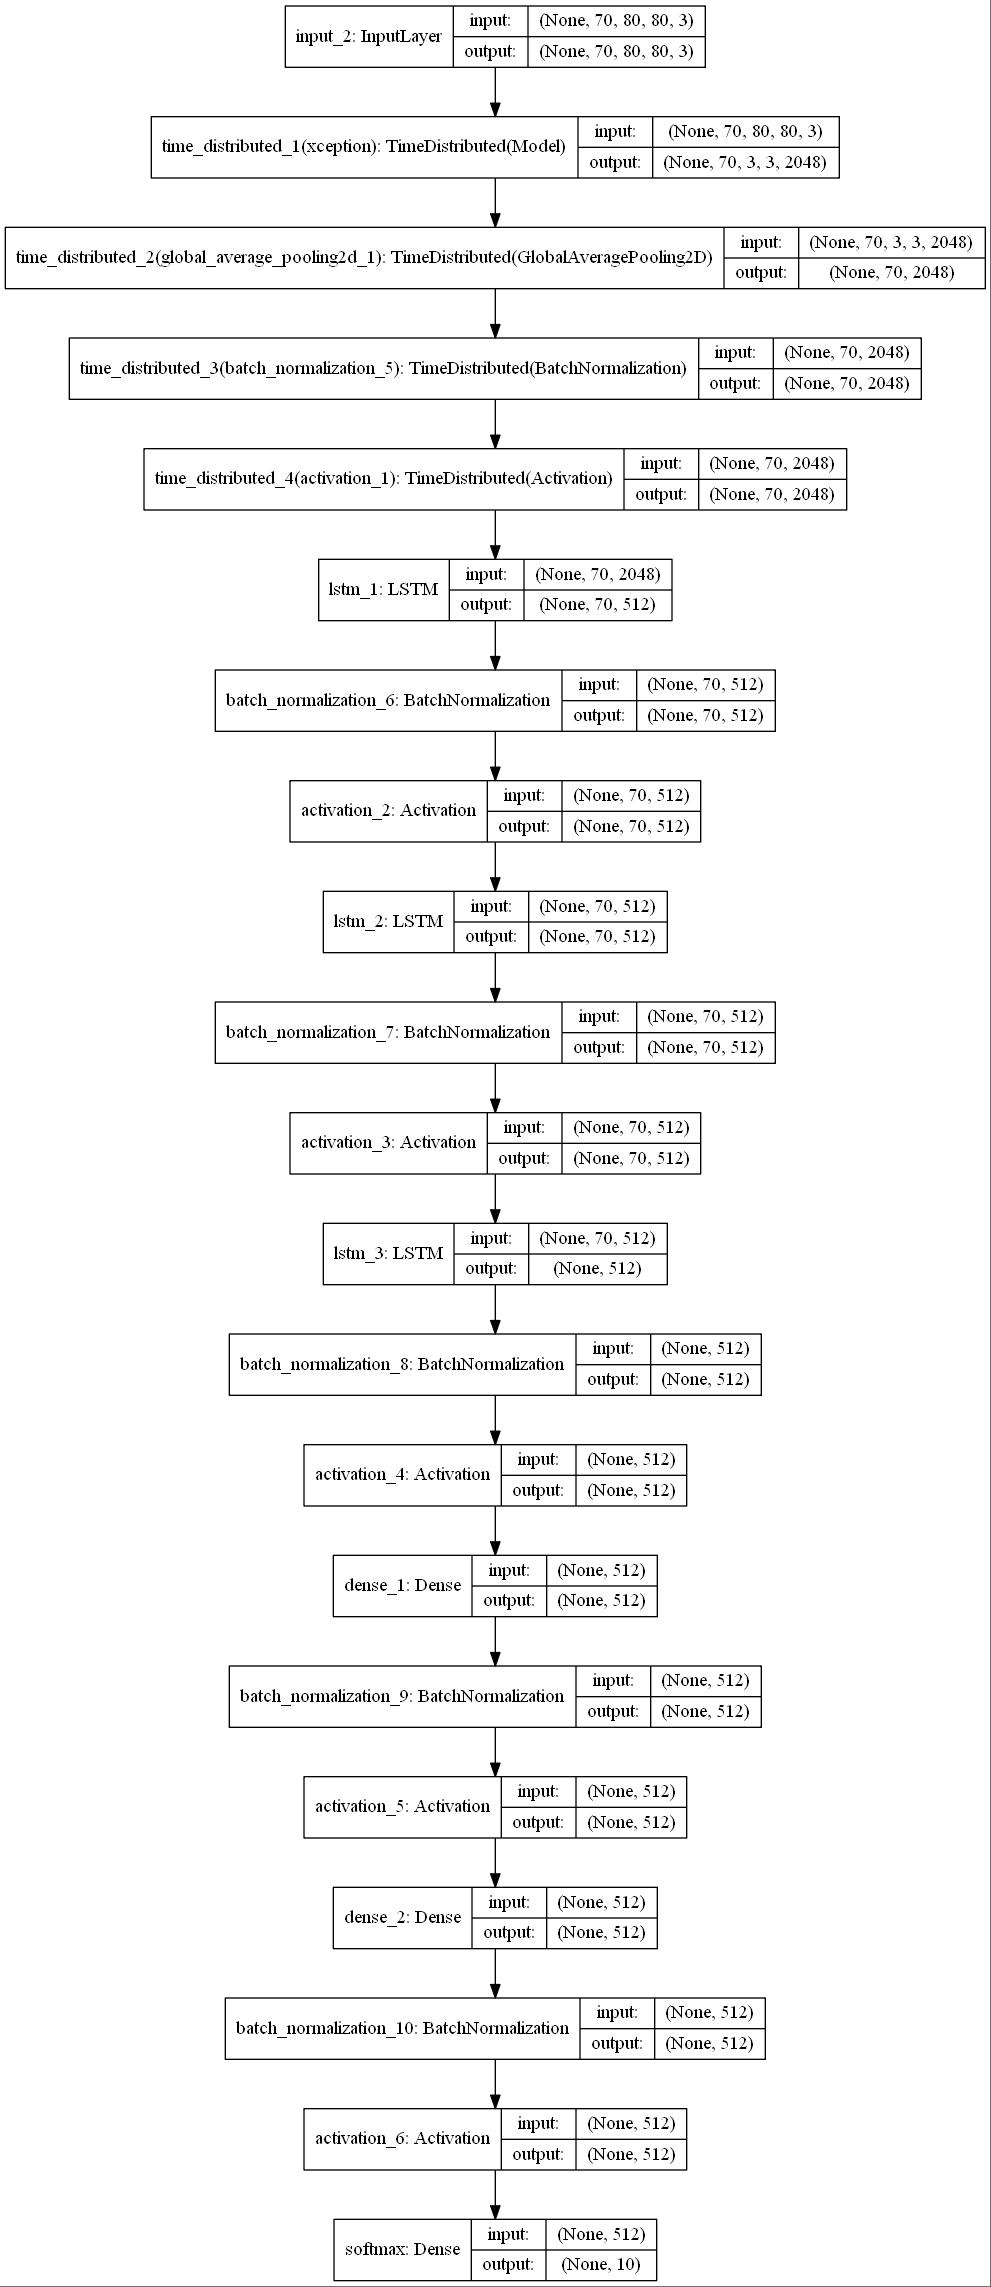
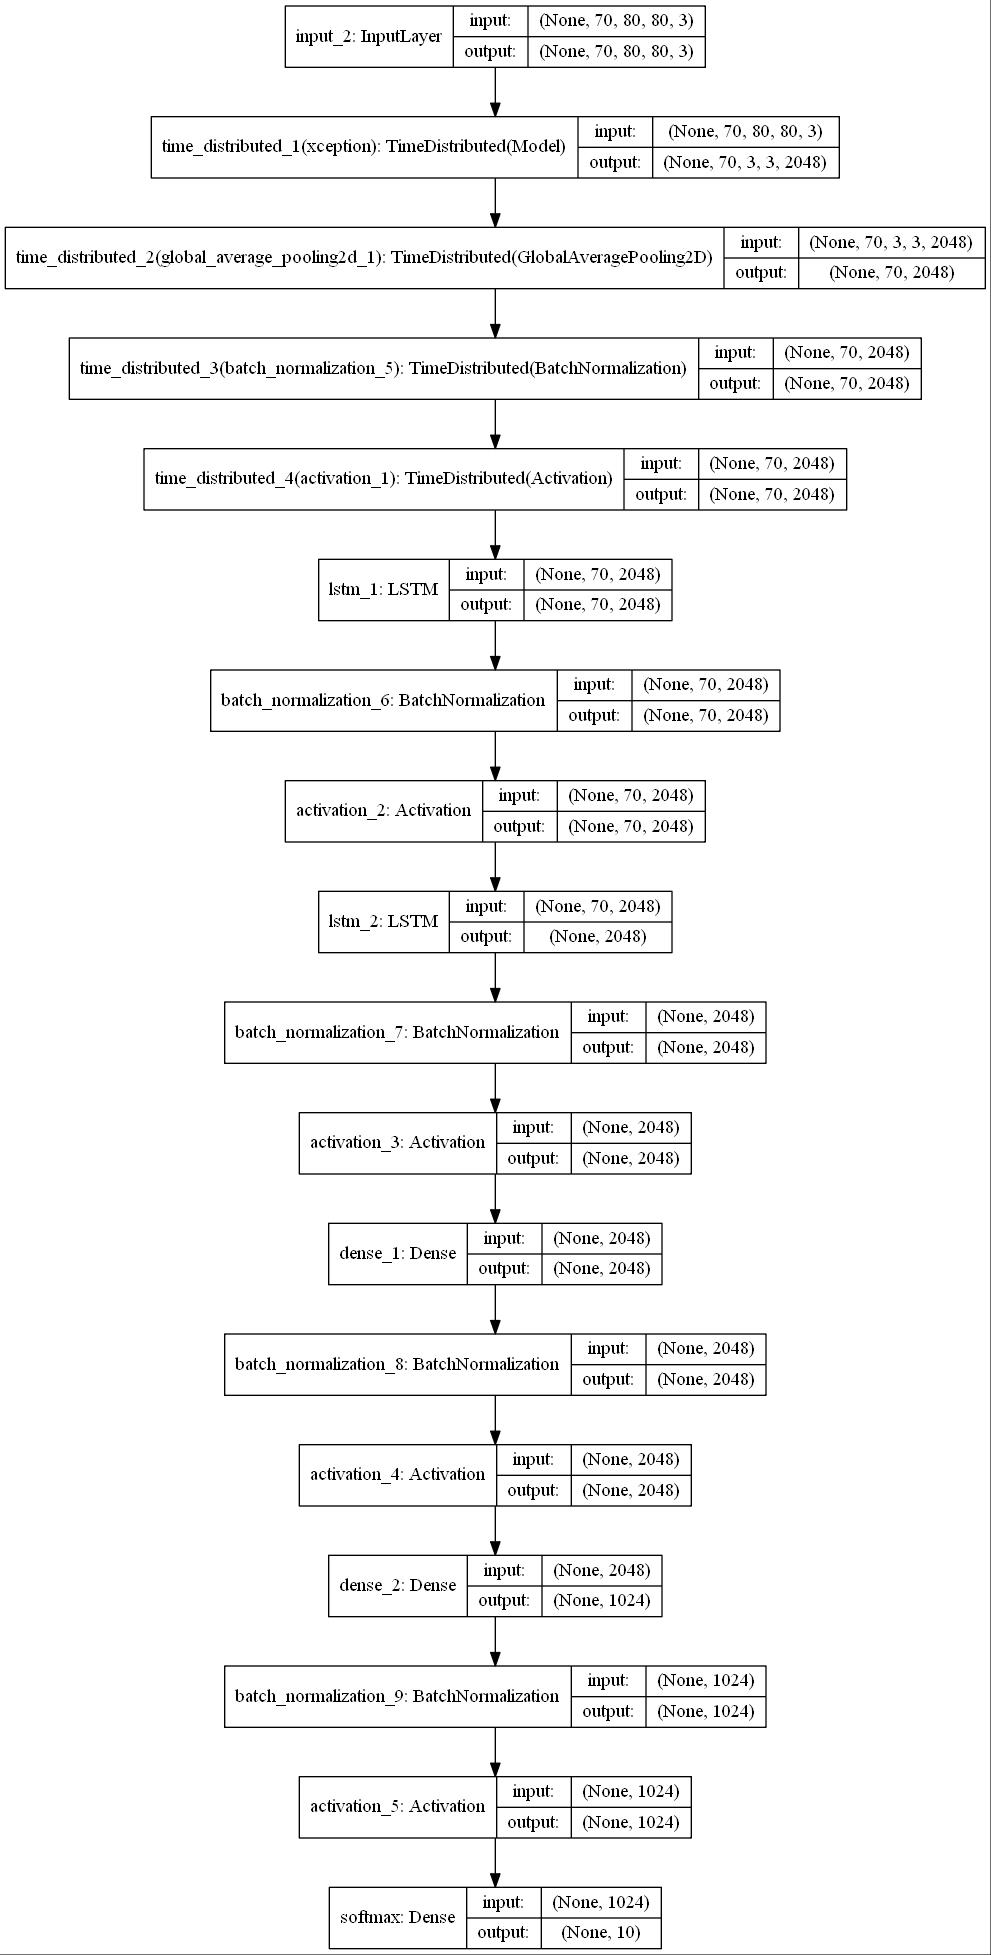
fine-tune

Changed region(s): [[0.0, 0.0, 1.0, 1.0]]

diff --git a/Project_DNN/scripts/models.py b/Project_DNN/scripts/models.py
@@ -98,19 +98,16 @@ def Model_B2_FT(inputShape):
     x = TimeDistributed(GlobalAveragePooling2D())(x) #3
     x = TimeDistributed(BatchNormalization())(x) #4
     x = TimeDistributed(Activation('relu'))(x) #5 #컨브망을 추가할까?
-    x = LSTM(512, return_sequences=True)(x) # 유닛크기늘려보자 3중R망은어떨가?
+    x = LSTM(2048, return_sequences=True)(x) # 유닛크기늘려보자 3중R망은어떨가?
     x = BatchNormalization()(x)
     x = Activation('relu')(x)
-    x = LSTM(512, return_sequences=True)(x)
+    x = LSTM(2048, return_sequences=False)(x)
     x = BatchNormalization()(x)
     x = Activation('relu')(x)
-    x = LSTM(512)(x)
+    x = Dense(2048)(x)
     x = BatchNormalization()(x)
     x = Activation('relu')(x)
-    x = Dense(512)(x)
-    x = BatchNormalization()(x)
-    x = Activation('relu')(x)
-    x = Dense(512)(x)
+    x = Dense(1024)(x)
     x = BatchNormalization()(x)
     x = Activation('relu')(x)
     xo = Dense(define.LABEL_SIZE, activation='softmax', name='softmax')(x)

diff --git a/Project_DNN/do_Learning_B2_PretrainedModel.py b/Project_DNN/do_Learning_B2_PretrainedModel.py
@@ -49,18 +49,18 @@ overwrite = True
 sampleSize_train = len(df.getSamplePathList(DATASET_PATH_TRAIN))
 sampleSize_test = len(df.getSamplePathList(DATASET_PATH_TEST))
 util.showDivisionSingle()
-print(sampleSize_train)
-print(sampleSize_test)
+print('train: ' + str(sampleSize_train))
+print('test: ' + str(sampleSize_test))
 
 train_imgGen = ImageDataGenerator(
     #preprocessing_function=preprocess_input,
     #rescale=1./255,
-    rotation_range=10,
-    shear_range=1.0,
-    zoom_range=0.10,
-    width_shift_range=0.10,
-    height_shift_range=0.10,
-    channel_shift_range=0.1,
+    rotation_range=22,
+    shear_range=3,
+    zoom_range=0.2,
+    width_shift_range=0.18,
+    height_shift_range=0.18,
+    channel_shift_range=5,
     #vertical_flip=False,
     #horizontal_flip=False,
     fill_mode='nearest'
